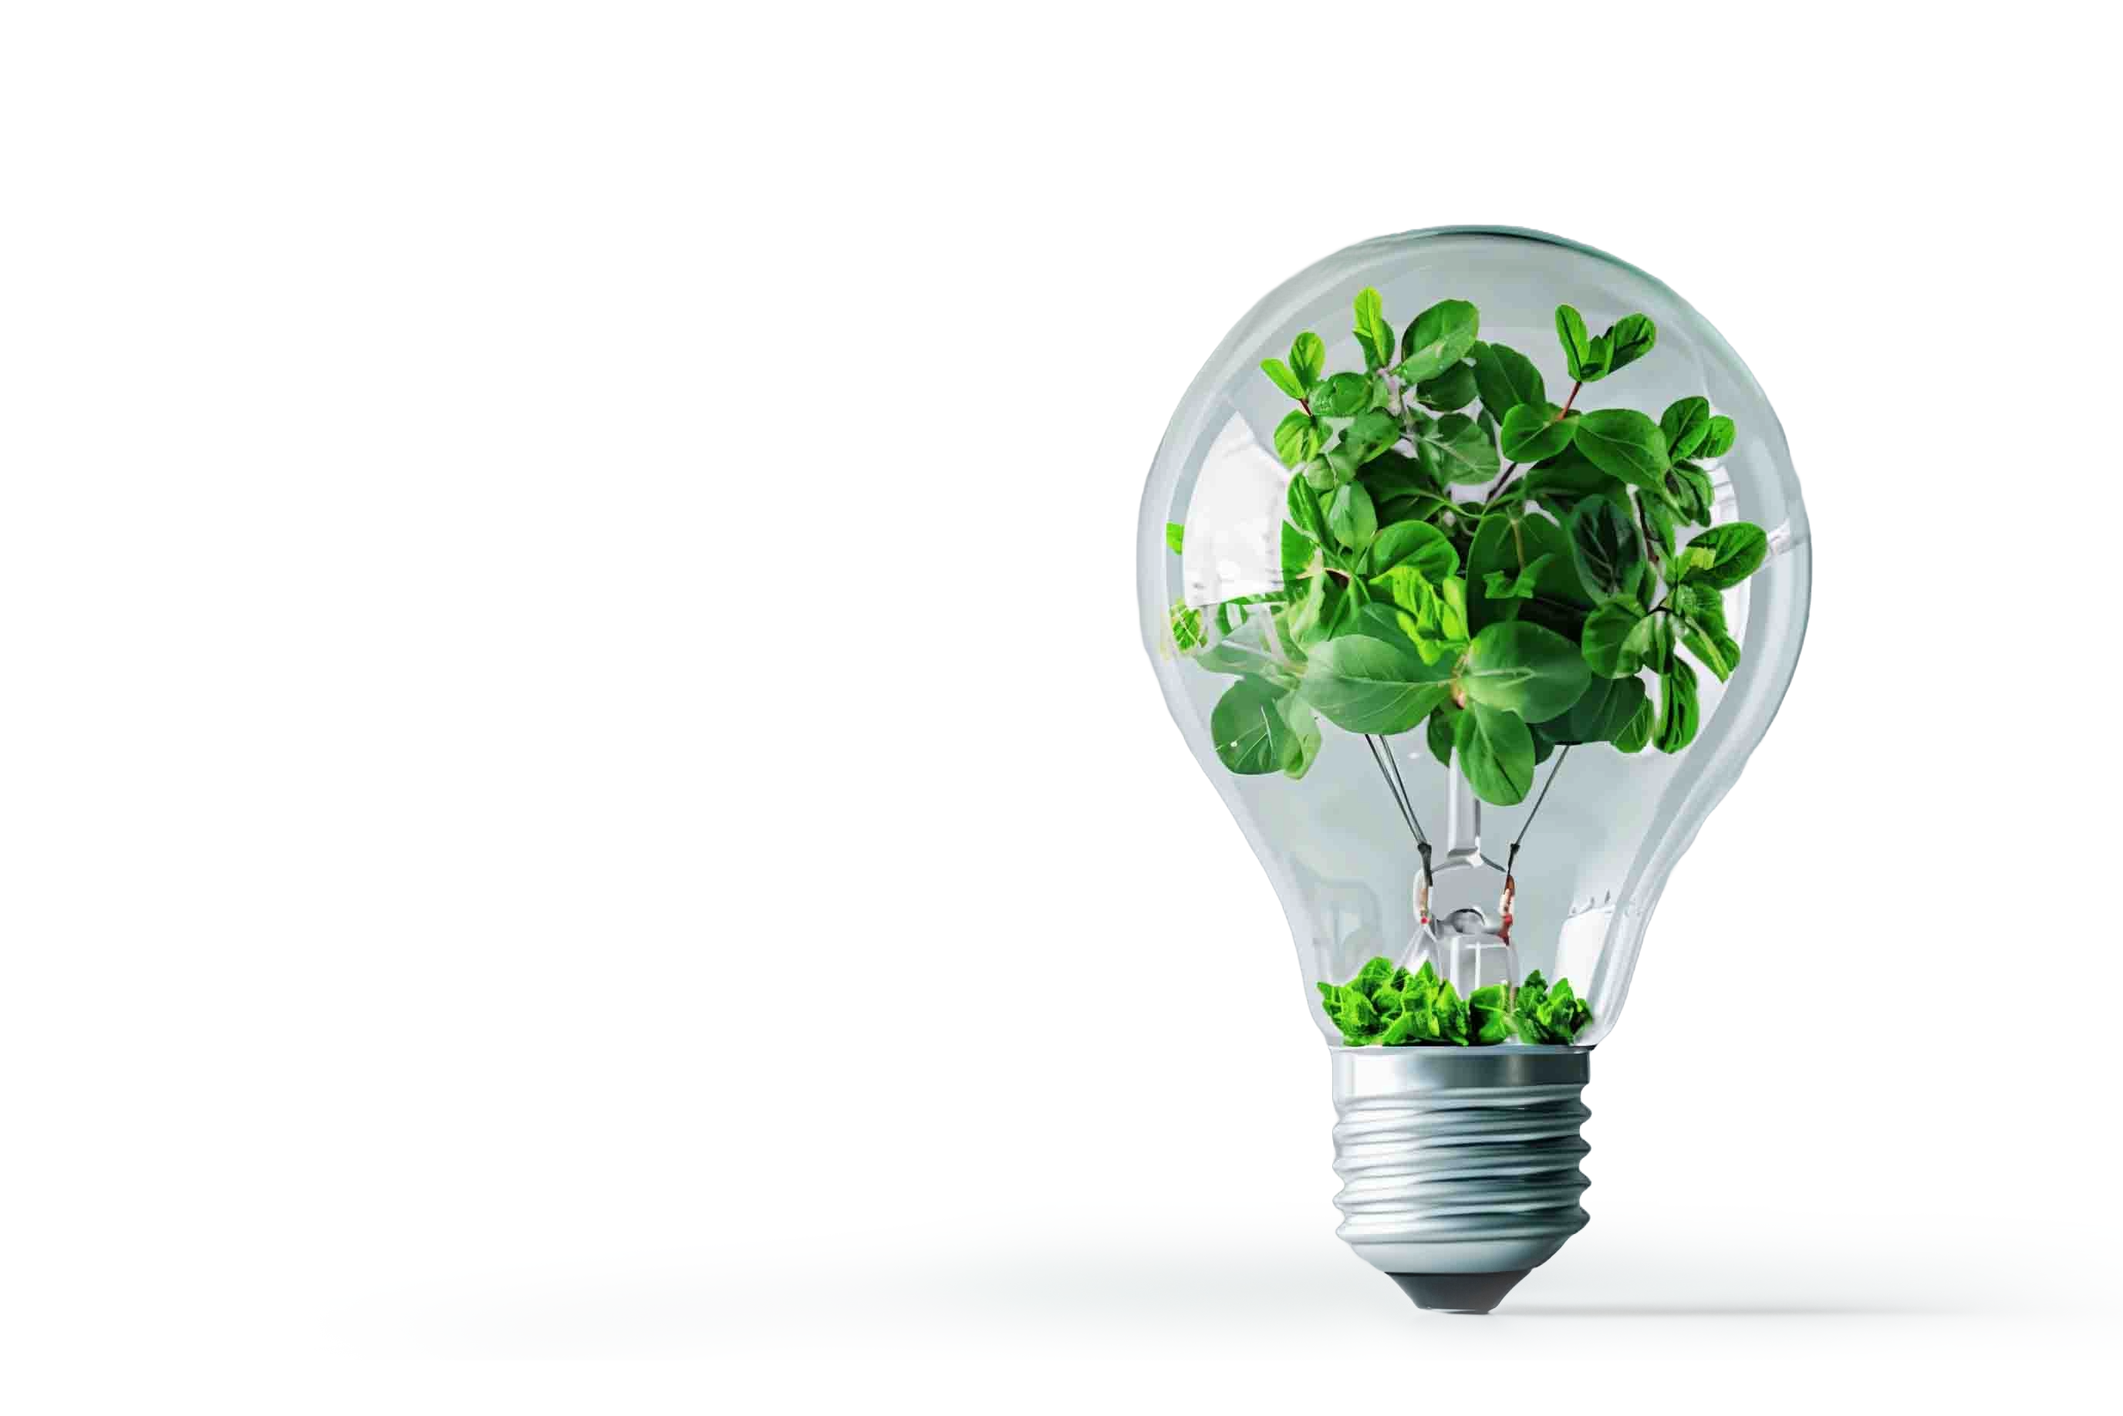
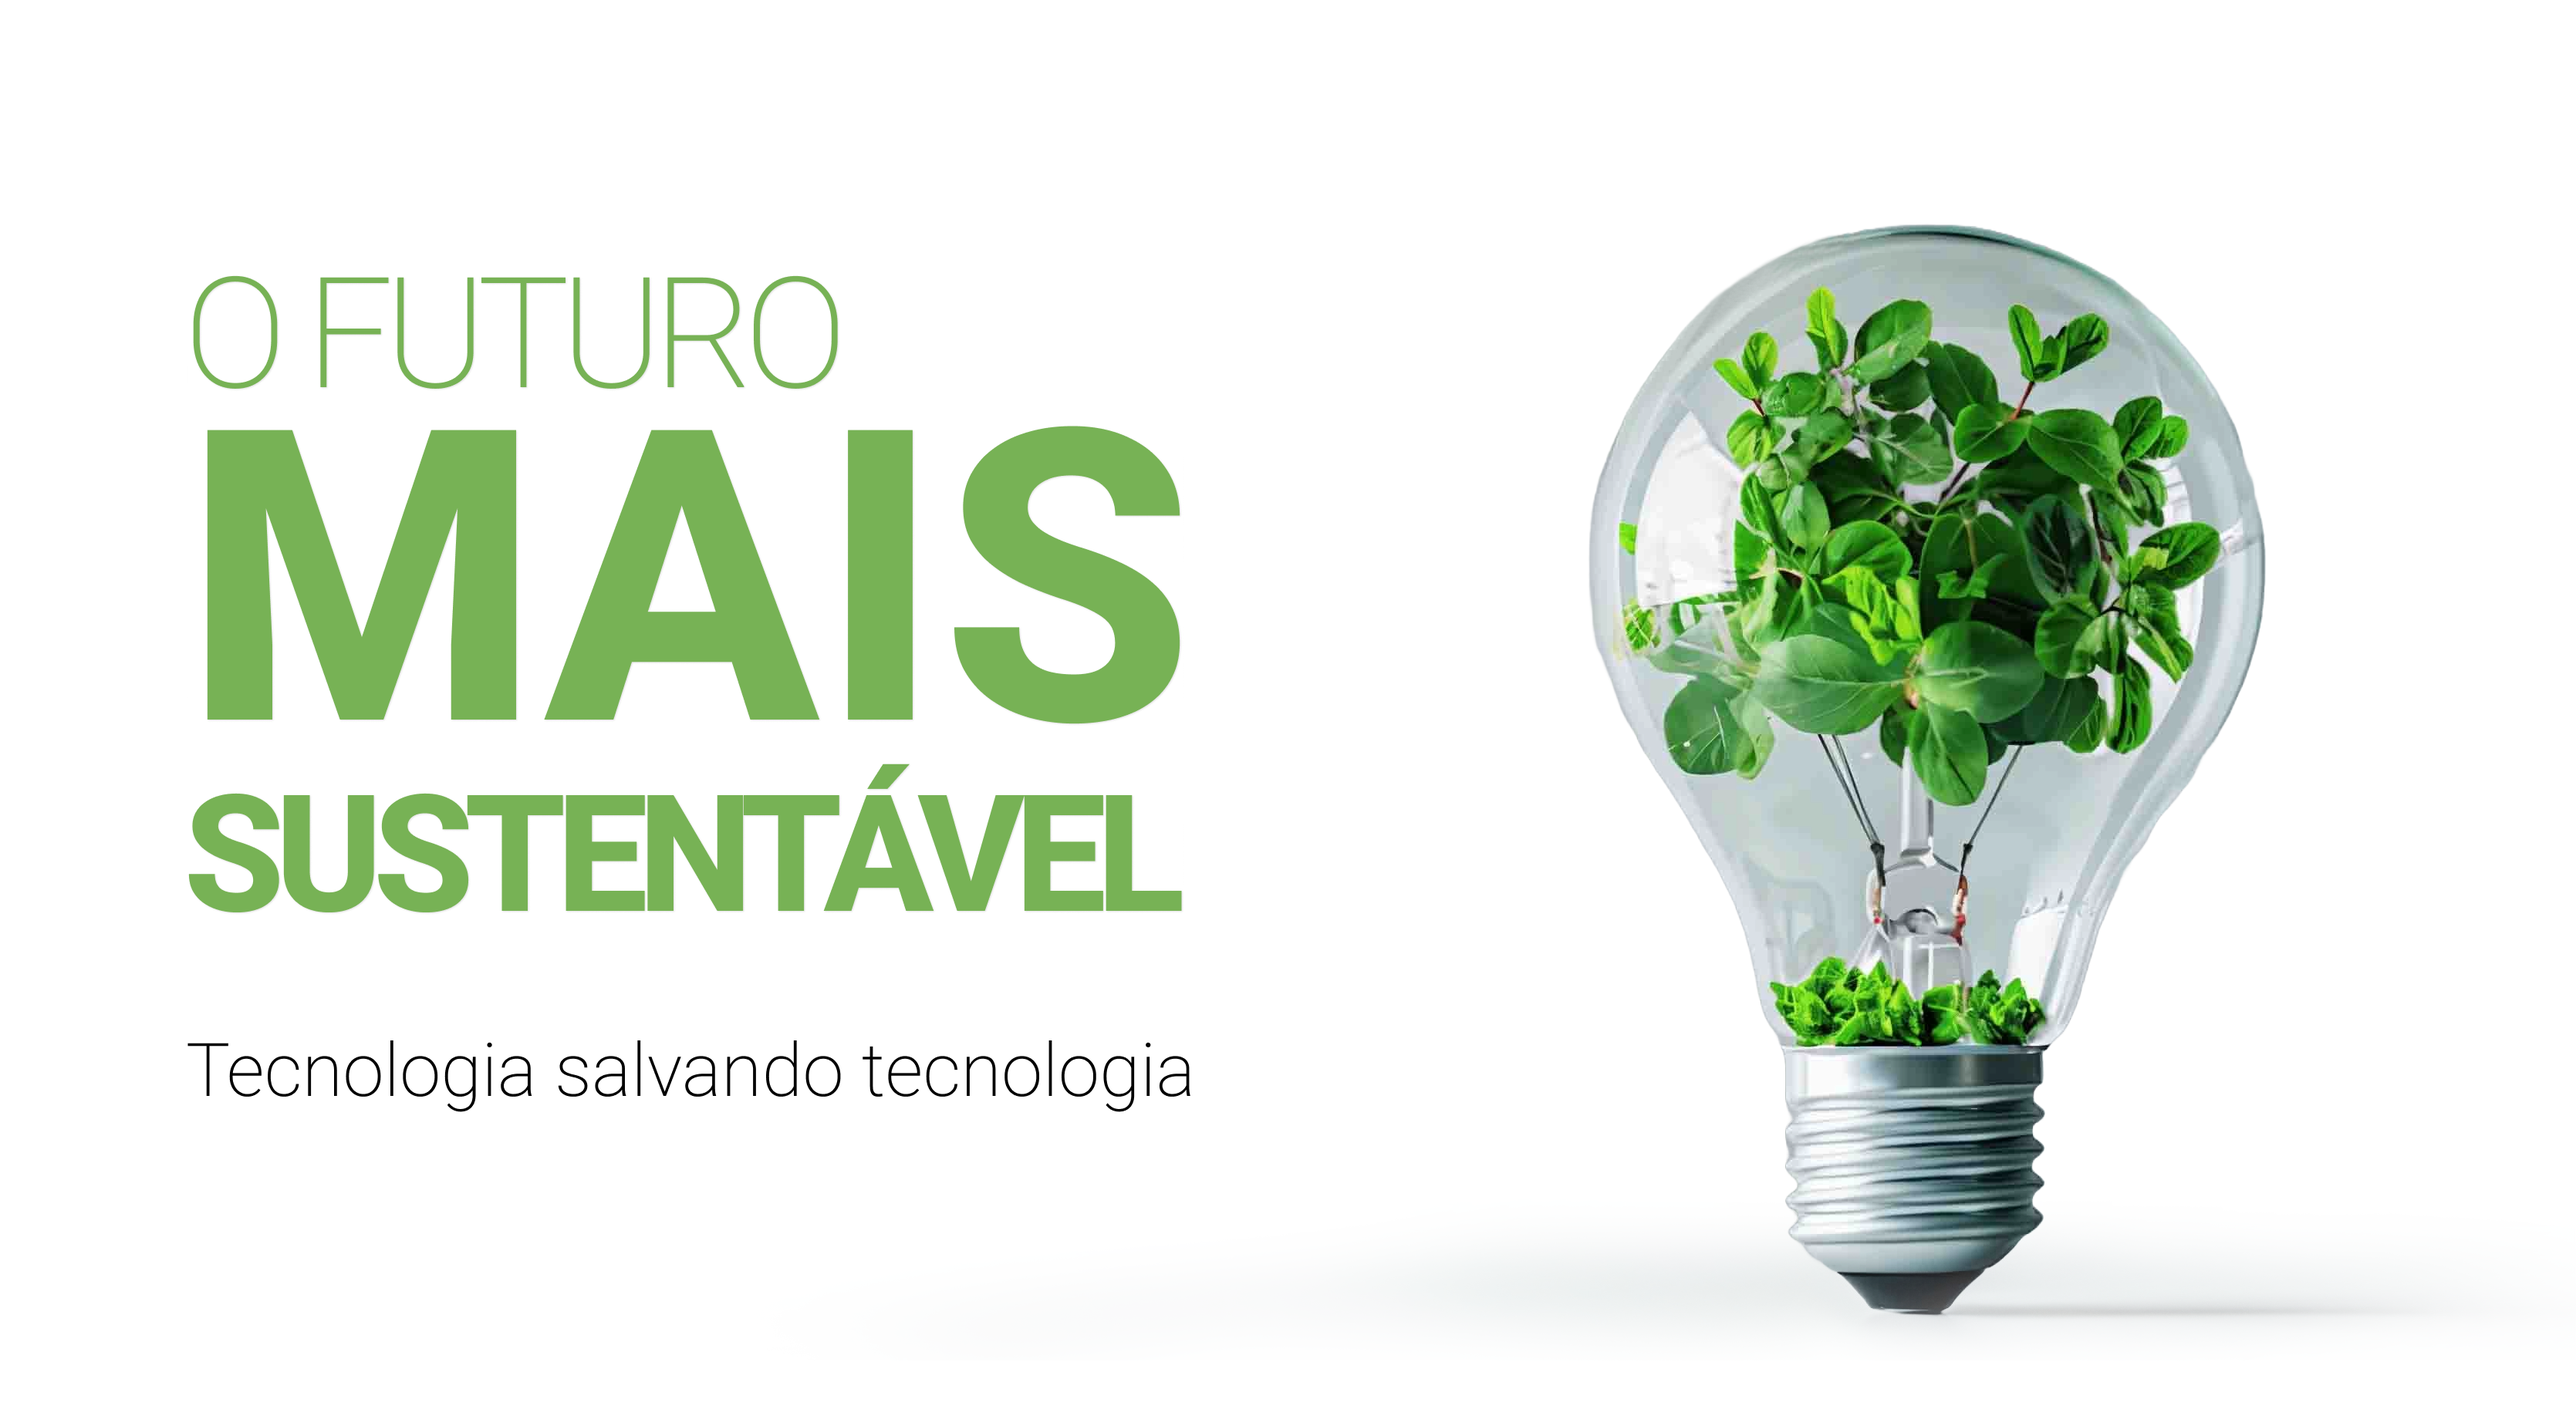
index finished

diff --git a/e-saving/wwwroot/css/index.css b/e-saving/wwwroot/css/index.css
@@ -35,18 +35,15 @@
 }
 
 #top-container {
-    display: grid;
-
-    height: 600px;
+    display: flex;
+    justify-content: center;
 }
 
 #index-img {
-    justify-self: flex-end;
-    margin-left: 300px;
-    width: 900px;
+    width: 80%;
 }
 
-h2 {
+/* h2 {
     line-height: 0.9;
     color: #77B255;
 
@@ -64,22 +61,30 @@ h2 {
 #h2-3 {
     font-size: 72px;
     font-weight: 800;
-}
+} 
 
 #index-top {
     display: flex;
     flex-direction: column;
     justify-content: center;
-    position: absolute;
-    left: 12%;
-    top: 17%;
-
-    margin-left: 100px;
 }
 
 #index-top h3 {
     font-size: 35px;
     font-weight: 200;
+} */
+
+#como-funciona-content {
+    display: flex;
+    flex-direction: row;
+    align-items: center;
+    justify-content: center;
+}
+
+#como-funciona-content img {
+    margin-right: 8%;
+    max-height: 90vh;
+
 }
 
 #como-funciona {

diff --git a/e-saving/wwwroot/css/site.css b/e-saving/wwwroot/css/site.css
@@ -10,5 +10,5 @@ body {
 }
 
 main {
-    margin: 0 250px 0 250px
+    margin: 0 8vw 0 8vw;
 }
